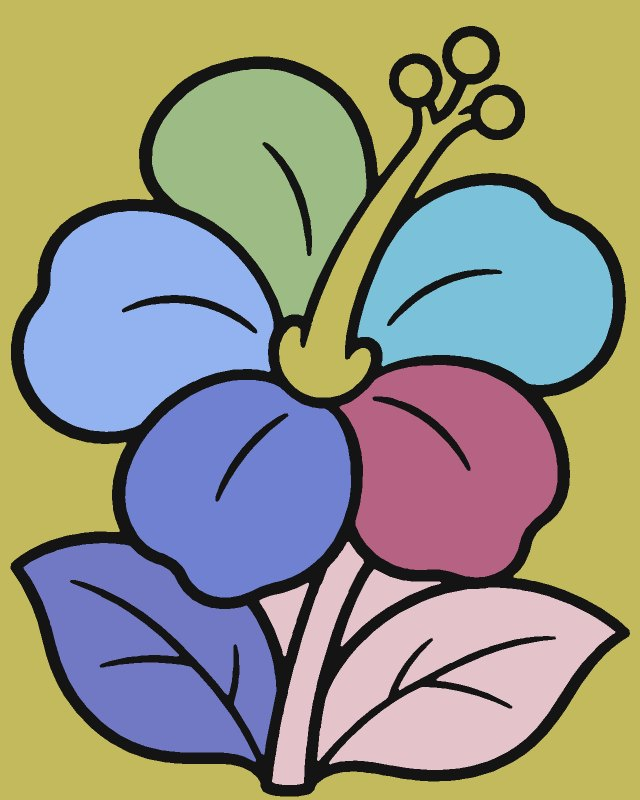
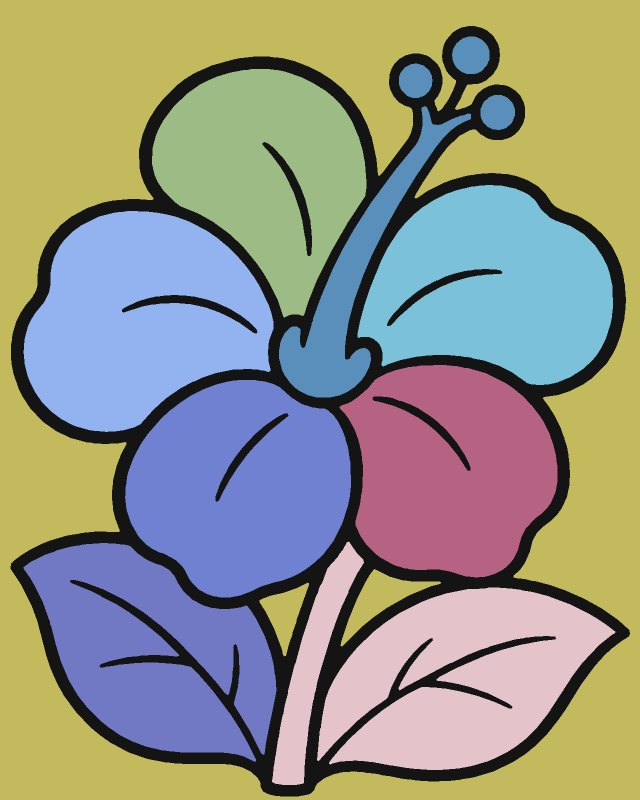
fix: cerrar el contorno del pistilo en E05

Changed region(s): [[0.4375, 0.0312, 0.8125, 0.5], [0.5312, 0.7188, 0.6875, 0.8125], [0.4062, 0.7188, 0.5, 0.8125]]

diff --git a/tool/laminas/convertir.py b/tool/laminas/convertir.py
@@ -66,7 +66,7 @@ PAGINAS_PREVIAS = {'E01': ('rana-en-la-hoja', 2), 'M06': ('quetzal', 2),
 def pagina_de(art_id, tema_id):
     if art_id in PAGINAS_PREVIAS:
         return PAGINAS_PREVIAS[art_id]
-    return f'{art_id.lower()}-{tema_id}', 2 if art_id in {'E03', 'E04'} else 1
+    return f'{art_id.lower()}-{tema_id}', 2 if art_id in {'E03', 'E04', 'E05'} else 1
 
 
 def leer_gris(ruta):
@@ -262,18 +262,26 @@ def procesar(art_id, tema_id, fuente, original):
         cambios.append(
             f'{len(brillos)} brillos sobre tinta conservados como regiones propias')
 
+    # Sondas en el lienzo de 1280 × 1600 para partes de un mismo elemento.
+    grupos_manuales = {
+        'E04': [(((45, 1299), (379, 1214), (612, 1181), (798, 1147)),
+                 '4 tramos de la rama agrupados en una región propia')],
+        'E05': [(((639, 739), (941, 110), (994, 224), (830, 161)),
+                 '3 puntas agrupadas con el centro de la flor'),
+                (((159, 159), (759, 1182), (566, 1218)),
+                 '2 huecos alrededor del tallo agrupados con el fondo'),
+                (((863, 1456), (578, 1538)),
+                 'tallo estrecho agrupado con la hoja derecha')],
+    }
     agrupadas_a_mano = 0
-    if art_id == 'E04':
-        # Los cuatro tramos de la rama forman una sola pieza, interrumpida
-        # por la cola y las patas. Las sondas usan el lienzo de 1280 × 1600.
-        tramos = [int(zonas[y, x]) for x, y in
-                  ((45, 1299), (379, 1214), (612, 1181), (798, 1147))]
-        if len(set(tramos)) != 4 or 0 in tramos:
-            raise ValueError('E04: las sondas deben identificar cuatro tramos de rama')
-        for tramo in tramos[1:]:
-            g.unir(tramo, tramos[0])
-        agrupadas_a_mano = len(tramos) - 1
-        cambios.append('4 tramos de la rama agrupados en una región propia')
+    for puntos, nota in grupos_manuales.get(art_id, ()):
+        partes = [int(zonas[y, x]) for x, y in puntos]
+        if len(set(partes)) != len(puntos) or any(p not in g.vec for p in partes):
+            raise ValueError(f'{art_id}: sondas inválidas para {nota}')
+        for parte in partes[1:]:
+            g.unir(parte, partes[0])
+        agrupadas_a_mano += len(partes) - 1
+        cambios.append(nota)
 
     while True:
         chicos = [a for a in g.area if pequeno(a) and g.vec.get(a)]

diff --git a/tool/laminas/manifiesto.py b/tool/laminas/manifiesto.py
@@ -88,6 +88,7 @@ TEMAS = [
 PREVIAS = {
     'e03-colibri': {'1': 'pages/e03-colibri-v1.json'},
     'e04-tucan': {'1': 'pages/e04-tucan-v1.json'},
+    'e05-flor-tropical': {'1': 'pages/e05-flor-tropical-v1.json'},
     'rana-en-la-hoja': {'1': 'pages/rana-en-la-hoja-v1.json'},
     'quetzal': {'1': 'pages/quetzal-v1.json'},
     'sendero': {'1': 'pages/sendero-v1.json'},

diff --git a/docs/laminas/REGISTRO_CAMBIOS.md b/docs/laminas/REGISTRO_CAMBIOS.md
@@ -35,12 +35,15 @@ Todas las láminas se normalizan a 1600 px de lado mayor y se vectorizan; debajo
 - 4 tramos de la rama agrupados en una región propia
 - 8 zonas pequeñas agrupadas con su vecina
 
-## E05 · `e05-flor-tropical` (revisión 1)
+## E05 · `e05-flor-tropical` (revisión 2)
 
 - Original: `Flor de hibisco con hojas para colorear-4.webp` → `E05_flor-tropical.webp` (1122 × 1402 px), SHA-256 `bb65b4453e7636fe…`
+- Fuente corregida: `tool/laminas/fuentes_corregidas/E05.png`. Se cerró el contorno del pistilo entre la punta central y la derecha.
 - Lienzo: 1280 × 1600 (vertical); trazo 22.0 px; tinta que toca el marco: 0.0 %
-- huecos de trazo cerrados (261 px)
-- 6 zonas pequeñas agrupadas con su vecina
+- huecos de trazo cerrados (270 px)
+- 3 puntas agrupadas con el centro de la flor
+- 2 huecos alrededor del tallo agrupados con el fondo
+- tallo estrecho agrupado con la hoja derecha
 
 ## E06 · `e06-quetzal` (revisión 1)
 
